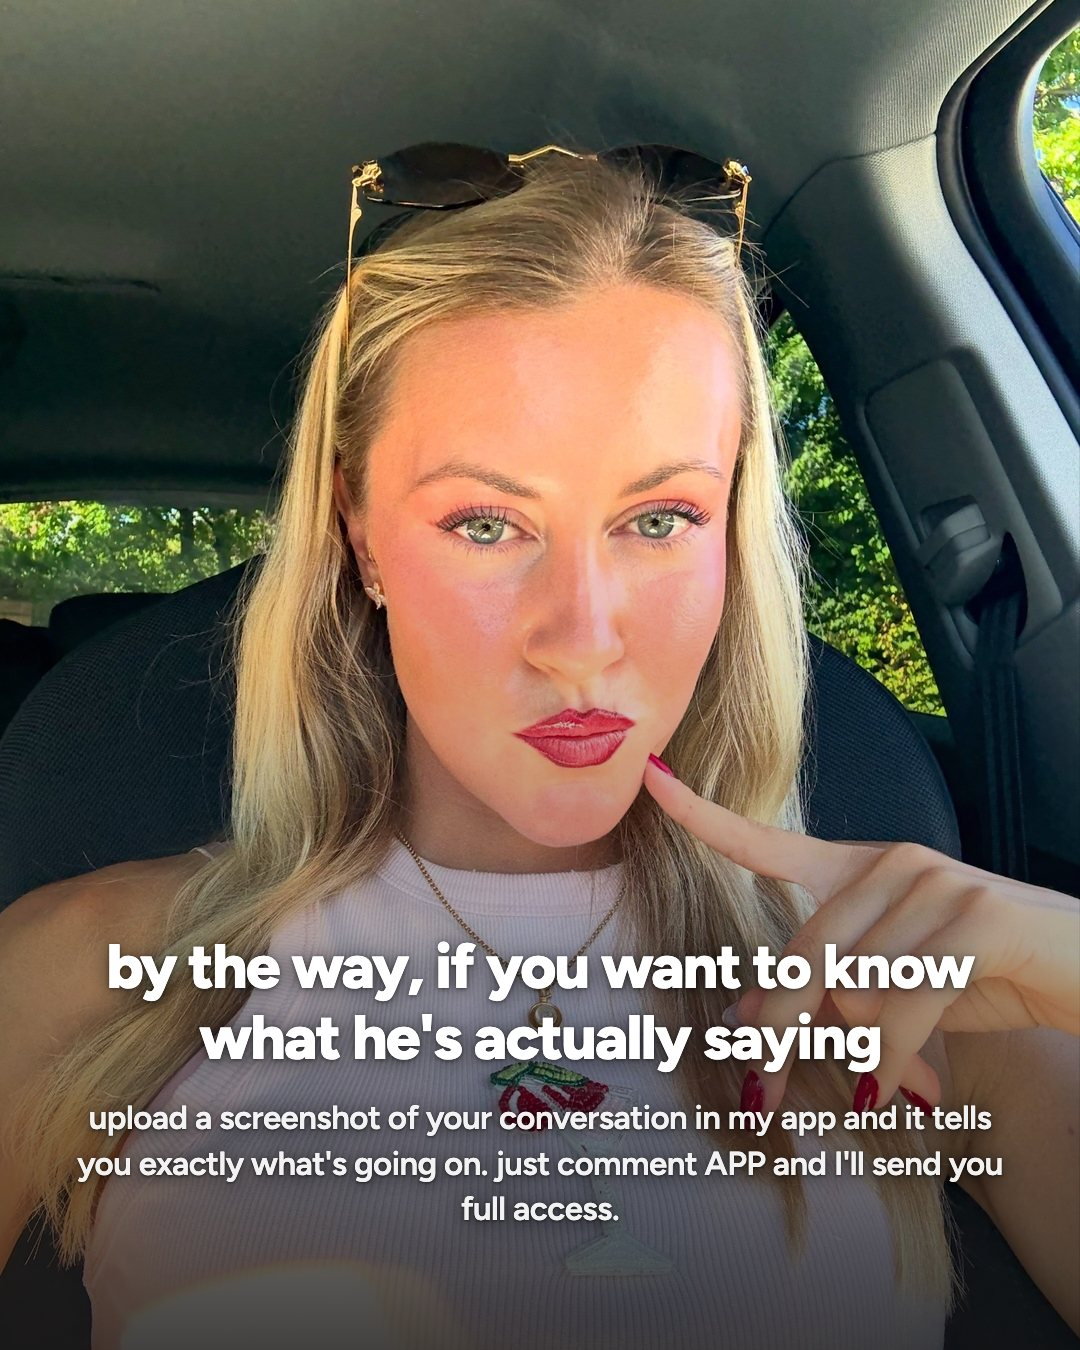
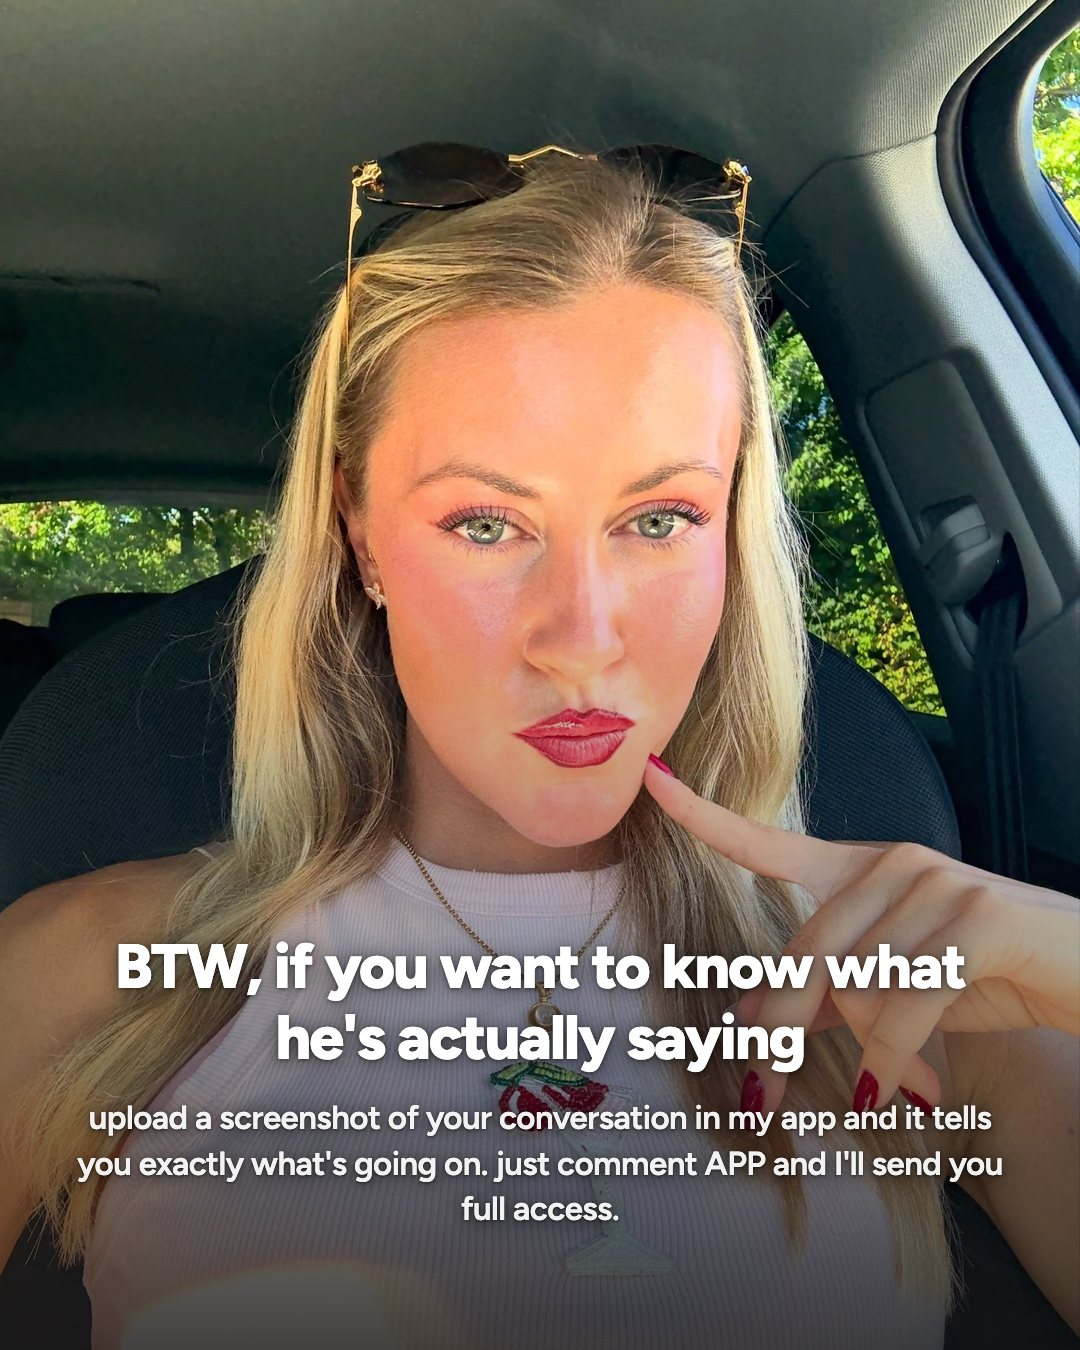
Style 1 only; new openers for 1 and 7; BTW instead of by the way

Changed region(s): [[0.0917, 0.6844, 0.9167, 0.8089]]

diff --git a/index.html b/index.html
@@ -53,17 +53,6 @@ h1{
   text-wrap:balance;
 }
 
-.switch{
-  display:flex;gap:4px;margin-top:20px;width:max-content;
-  background:var(--surface);border:1px solid var(--line);border-radius:999px;padding:4px;
-}
-.switch button{
-  border:0;border-radius:999px;cursor:pointer;
-  font-family:var(--ui);font-size:14px;font-weight:600;letter-spacing:-.01em;
-  padding:9px 22px;background:transparent;color:var(--muted);
-}
-.switch button.on{background:var(--accent);color:#fff}
-
 .set{margin-bottom:52px}
 .sethead{display:flex;align-items:baseline;gap:12px;margin-bottom:12px}
 h2{
@@ -173,13 +162,7 @@ button:focus-visible,textarea:focus-visible{outline:2px solid var(--accent);outl
 </head>
 <body>
 <div class="wrap">
-  <header class="top">
-    <h1>New App CTA Carousels</h1>
-    <div class="switch" id="switch">
-      <button type="button" data-style="1" class="on">Style 1</button>
-      <button type="button" data-style="2">Style 2</button>
-    </div>
-  </header>
+  <header class="top"><h1>New App CTA Carousels</h1></header>
   <main id="sets"></main>
   <div class="wrapup" id="wrapup" hidden><p id="wrapupLine"></p></div>
 </div>
@@ -195,10 +178,10 @@ button:focus-visible,textarea:focus-visible{outline:2px solid var(--accent);outl
   var LOCAL = 'anna-carousel-notes-v3';
 
   var STYLE = 1;
-  try { var sp = localStorage.getItem('anna-carousel-style'); if (sp === '2') STYLE = 2; } catch (e) {}
+
 
   function pad(n){ return n < 10 ? '0' + n : '' + n; }
-  var BUILD = '10';   // bumped on every re-render so nobody reviews a cached slide
+  var BUILD = '11';   // bumped on every re-render so nobody reviews a cached slide
   function src(c, s){ return 'slides/s' + STYLE + '/c' + pad(c) + '-' + pad(s) + '.jpg?v=' + BUILD; }
 
   var notes = [];
@@ -414,28 +397,7 @@ button:focus-visible,textarea:focus-visible{outline:2px solid var(--accent);outl
   var wrapup = document.getElementById('wrapup'),
       wrapupLine = document.getElementById('wrapupLine');
 
-  function paintStyle(){
-    var btns = document.querySelectorAll('#switch button');
-    for (var i = 0; i < btns.length; i++)
-      btns[i].classList.toggle('on', Number(btns[i].getAttribute('data-style')) === STYLE);
-    var imgs = document.querySelectorAll('.cell img');
-    for (var k = 0; k < imgs.length; k++) {
-      var cell = imgs[k].parentNode, c = Number(cell.parentNode.getAttribute('data-track'));
-      imgs[k].src = src(c, Number(cell.getAttribute('data-s')));
-    }
-    render();
-  }
-  document.getElementById('switch').addEventListener('click', function(e){
-    var b = e.target.closest ? e.target.closest('button[data-style]') : null;
-    if (!b) return;
-    var n = Number(b.getAttribute('data-style'));
-    if (n === STYLE) return;
-    STYLE = n;
-    try { localStorage.setItem('anna-carousel-style', String(STYLE)); } catch (err) {}
-    paintStyle();
-  });
-
-  paintStyle();
+  render();
   for (var c2 = 1; c2 <= SETS; c2++) setActive(c2, 1);
 
   function pull(){
